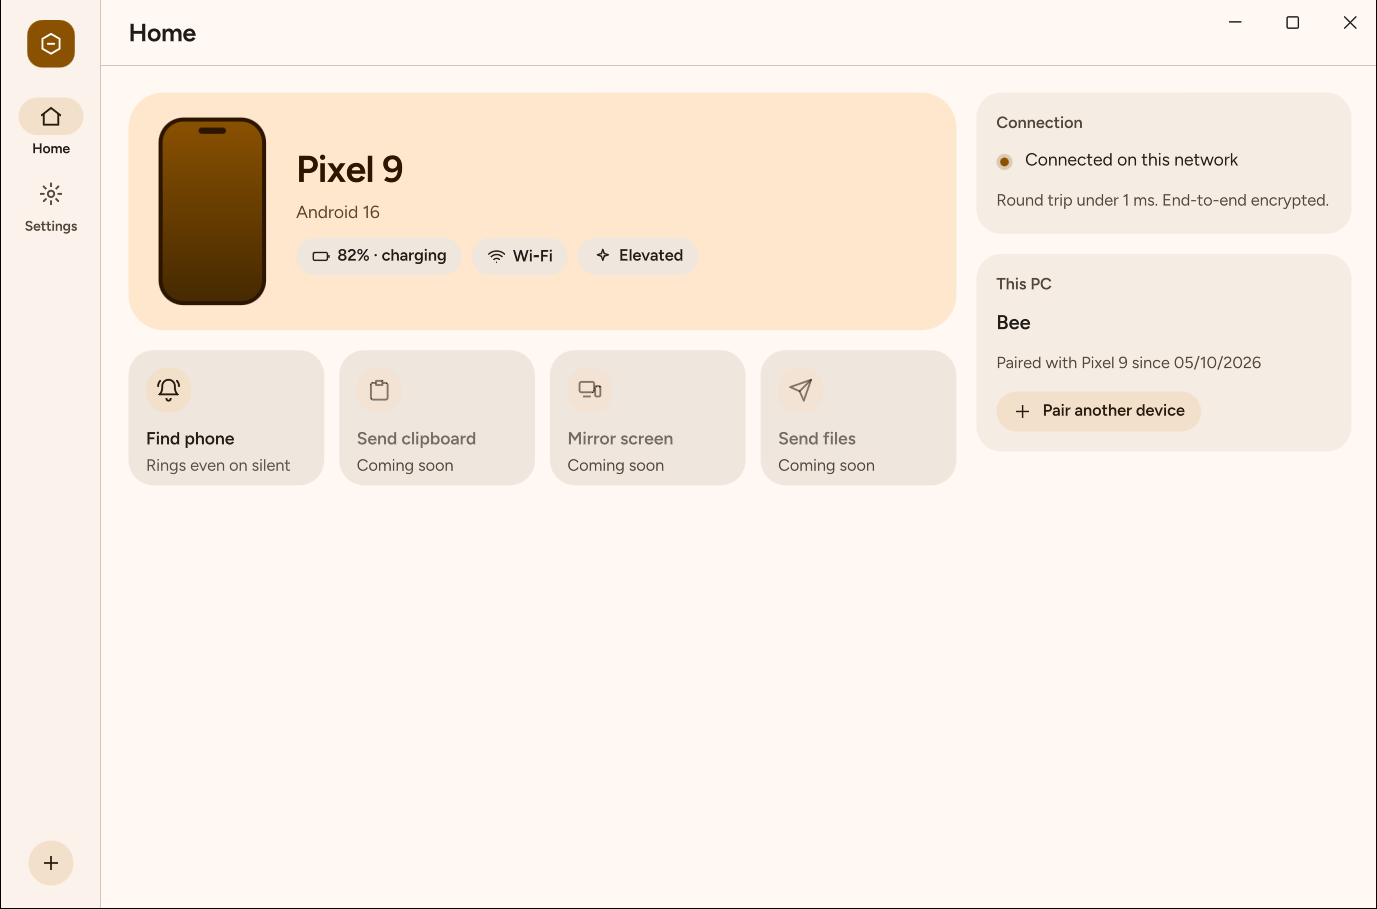
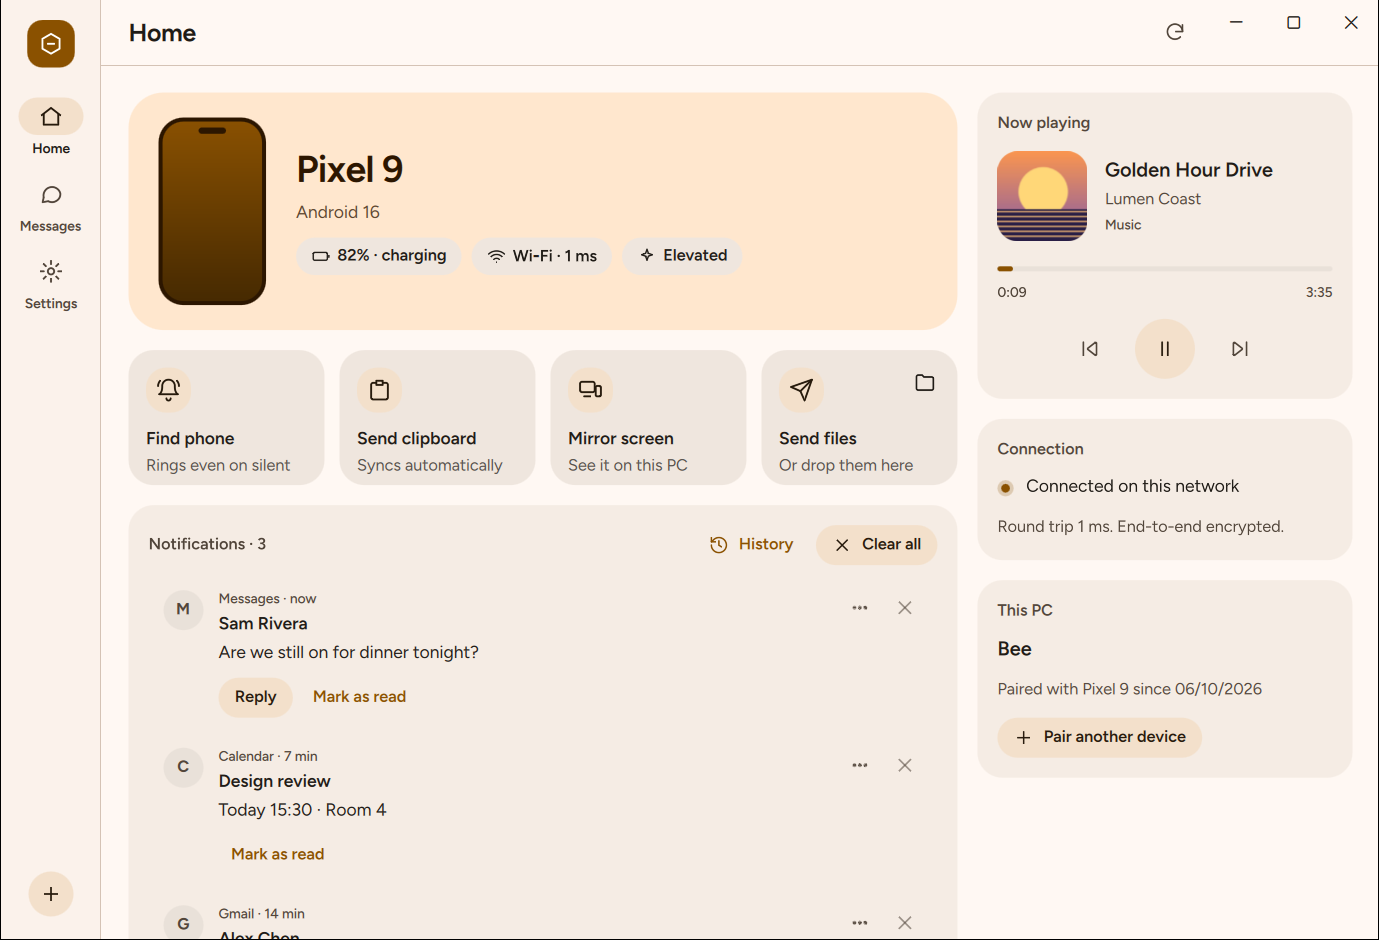
README and screenshots for where the project stands
The README now reflects Phase 1 done and Phase 2 under way: mirrored
sound, in-call controls, Messages search and codes, battery alerts. New
screenshots show Home with notifications, music and a call, Messages, and
a mirrored phone.

The CLI gains a demo command (a phone with notifications, music,
conversations and an optional call at once) for screenshots and trying the
PC app. Also: Messages says Yesterday in its list, the clipboard tile's
subtitle fits, call toggles keep Graphite's shapes, and the CLI's notify
and media commands have the right help.

diff --git a/desktop/app/qml/pages/MessagesPage.qml b/desktop/app/qml/pages/MessagesPage.qml
@@ -99,12 +99,15 @@ Item {
     }
     onDeviceIdChanged: { composing = false; load() }
 
-    // "14:05", "Tue", or a date.
+    // "14:05", "Yesterday", "Tue", or a date.
     function shortTime(ms) {
         const date = new Date(ms)
         const now = new Date()
         if (date.toDateString() === now.toDateString())
             return date.toLocaleTimeString(Qt.locale(), Locale.ShortFormat)
+        const yesterday = new Date(now.getFullYear(), now.getMonth(), now.getDate() - 1)
+        if (date.toDateString() === yesterday.toDateString())
+            return qsTr("Yesterday")
         if (now - date < 6 * 24 * 3600 * 1000)
             return date.toLocaleDateString(Qt.locale(), "ddd")
         return date.toLocaleDateString(Qt.locale(), Locale.ShortFormat)

diff --git a/desktop/app/qml/pages/HomePage.qml b/desktop/app/qml/pages/HomePage.qml
@@ -266,7 +266,7 @@ Item {
                 ActionTile {
                     width: actions.tileWidth
                     title: qsTr("Send clipboard")
-                    subtitle: Preferences.autoClipboard ? qsTr("Copies go over by themselves") : qsTr("To the phone")
+                    subtitle: Preferences.autoClipboard ? qsTr("Syncs automatically") : qsTr("To the phone")
                     iconPath: Icons.clipboard
                     feature: home.feature("clipboard.pc_to_phone")
                     onClicked: AppController.sendClipboard(home.deviceId)

diff --git a/desktop/app/qml/components/CallCard.qml b/desktop/app/qml/components/CallCard.qml
@@ -55,7 +55,7 @@ Card {
             Rectangle {
                 z: -1
                 anchors.fill: parent
-                radius: width / 2
+                radius: Theme.pill(height)
                 visible: control.on
                 color: Theme.graphite ? Theme.surfaceContent : Theme.primary
             }

diff --git a/core/nectarlink-cli/src/main.rs b/core/nectarlink-cli/src/main.rs
@@ -138,8 +138,6 @@ enum Command {
         #[arg(long)]
         reply: Option<String>,
     },
-    /// Show a notification on paired PCs as if this were a phone (use with
-    /// --as-phone), then stay online to show what the PC does with it.
     /// Control what plays on a paired device: play, pause, next, previous,
     /// or seek with --position.
     Media {
@@ -205,6 +203,18 @@ enum Command {
     /// Act as a phone with a few sample conversations (use with --as-phone),
     /// so a PC can read them and text through this client; stays online.
     Texts,
+    /// Act as a phone with sample content all at once (use with
+    /// --as-phone): notifications, a song playing, conversations and,
+    /// with --call, a call in progress. For screenshots and trying the PC
+    /// app; stays online.
+    Demo {
+        /// Also a call in progress.
+        #[arg(long)]
+        call: bool,
+        /// Artwork for the song (JPEG or PNG).
+        #[arg(long)]
+        art: Option<PathBuf>,
+    },
     /// Act as a phone with an incoming call (use with --as-phone): PCs can
     /// answer it, then mute, use the speaker, hold, press keys or hang up,
     /// as on a phone that controls its calls. Stays online.
@@ -264,6 +274,8 @@ enum Command {
         #[arg(long)]
         art: Option<PathBuf>,
     },
+    /// Show a notification on paired PCs as if this were a phone (use with
+    /// --as-phone), then stay online to show what the PC does with it.
     Notify {
         title: String,
         text: String,
@@ -279,6 +291,10 @@ enum Command {
         /// A picture it shows (JPEG, at most 160 KiB).
         #[arg(long)]
         image: Option<PathBuf>,
+        /// More notifications shown with it, each "App|Title|Text"
+        /// (repeatable).
+        #[arg(long)]
+        also: Vec<String>,
     },
 }
 
@@ -1114,6 +1130,87 @@ async fn run(cli: &Cli, node: &Node) -> Result<()> {
             println!("Ringing on connected PCs (and on others when they connect).");
             watch(node, false).await?;
         }
+        Command::Demo { call, art } => {
+            if !cli.as_phone {
+                bail!("the demo is a phone: add --as-phone");
+            }
+            sample_texts();
+            let _ = TEXTS_NODE.set(node.clone());
+            let _ = CALL_NODE.set(node.clone());
+            CALL_CONTROLS.store(true, std::sync::atomic::Ordering::Relaxed);
+            let mut offers = cli.offers.clone();
+            offers.extend(
+                [
+                    "notify.mirror",
+                    "notify.reply",
+                    "media.control",
+                    "clip.write",
+                    "clip.share",
+                    nectarlink_core::SMS_READ,
+                    nectarlink_core::SMS_SEND,
+                    nectarlink_core::CALLS_STATE,
+                    nectarlink_core::CALLS_CONTROL,
+                    nectarlink_core::CALLS_IN_CALL,
+                ]
+                .map(str::to_owned),
+            );
+            node.update_power(node_power(cli), offers).await;
+            let now = std::time::SystemTime::now().duration_since(std::time::UNIX_EPOCH)?.as_millis() as i64;
+            let samples = [
+                ("Messages", "Sam Rivera", "Are we still on for dinner tonight?", true),
+                ("Calendar", "Design review", "Today 15:30 · Room 4", false),
+                (
+                    "Gmail",
+                    "Alex Chen",
+                    "Photos from Saturday: here they are, plus the ones from the lake",
+                    false,
+                ),
+            ];
+            for (i, (app, title, text, reply)) in samples.into_iter().enumerate() {
+                let mut actions = vec![NotificationAction {
+                    id: "read".into(),
+                    title: "Mark as read".into(),
+                    reply: false,
+                }];
+                if reply {
+                    actions.insert(
+                        0,
+                        NotificationAction { id: "reply".into(), title: "Reply".into(), reply: true },
+                    );
+                }
+                node.notification_posted(Notification {
+                    key: format!("demo|{i}"),
+                    app: format!("dev.nectarlink.demo.{}", app.to_lowercase()),
+                    app_name: app.into(),
+                    title: Some(title.into()),
+                    text: Some(text.into()),
+                    sub: None,
+                    when: now - 7 * 60_000 * i as i64,
+                    actions,
+                    silent: true,
+                    icon: None,
+                    image: None,
+                })
+                .await;
+            }
+            if *call {
+                let call = nectarlink_core::CallState {
+                    id: now.to_string(),
+                    state: "active".into(),
+                    incoming: true,
+                    number: Some("+15550144".into()),
+                    name: Some("Sam Rivera".into()),
+                    photo: None,
+                    missed: false,
+                    since: Some(now - 83_000),
+                    controls: Some(nectarlink_core::CallControls { can_hold: true, ..Default::default() }),
+                };
+                *CALL.lock().unwrap() = Some(call.clone());
+                node.call_changed(call).await.context("can't tell PCs")?;
+            }
+            println!("Showing sample content to paired PCs.");
+            play(node, "Golden Hour Drive", "Lumen Coast", "Music", 215, art.as_deref()).await?;
+        }
         Command::Sms { device, action } => {
             let mut offers = cli.offers.clone();
             offers.push(nectarlink_core::SMS_SHOW.into());
@@ -1291,7 +1388,7 @@ async fn run(cli: &Cli, node: &Node) -> Result<()> {
             println!("Announced to connected PCs that show photos.");
             watch(node, false).await?;
         }
-        Command::Notify { title, text, app, reply, silent, image } => {
+        Command::Notify { title, text, app, reply, silent, image, also } => {
             let image = image.as_deref().map(std::fs::read).transpose().context("can't read the picture")?;
             if !cli.as_phone {
                 bail!("notifications come from phones: add --as-phone");
@@ -1320,6 +1417,26 @@ async fn run(cli: &Cli, node: &Node) -> Result<()> {
                 image,
             })
             .await;
+            for (i, extra) in also.iter().enumerate() {
+                let mut parts = extra.splitn(3, '|');
+                let (Some(app), Some(title), Some(text)) = (parts.next(), parts.next(), parts.next()) else {
+                    bail!("--also takes \"App|Title|Text\"");
+                };
+                node.notification_posted(Notification {
+                    key: format!("cli|{when}|{i}"),
+                    app: format!("dev.nectarlink.cli.{i}"),
+                    app_name: app.into(),
+                    title: Some(title.into()),
+                    text: Some(text.into()),
+                    sub: None,
+                    when: when - 60_000 * (i as i64 + 1),
+                    actions: Vec::new(),
+                    silent: true,
+                    icon: None,
+                    image: None,
+                })
+                .await;
+            }
             println!("Notification sent to connected PCs (and to others when they connect).");
             watch(node, false).await?;
         }

diff --git a/README.md b/README.md
@@ -15,12 +15,12 @@ no account and no cloud.
 </div>
 
 > [!IMPORTANT]
-> **Nectarlink is in early development.** The foundations work end to end (pairing,
-> encrypted connections, live device status, find my device), but most features
-> are still ahead. There are no releases yet. See [Project status](#project-status).
+> **Nectarlink is in active development.** The everyday features work end to end
+> (notifications, clipboard, files, media) and mirroring, messages and calls are
+> well along, but there are no releases yet. See [Project status](#project-status).
 
 <p align="center">
-  <img src="docs/screenshots/desktop-graphite-home.png" alt="Nectarlink for Windows, home screen, Graphite theme" width="880">
+  <img src="docs/screenshots/desktop-bloom-home.png" alt="Nectarlink for Windows, home screen with notifications and what plays on the phone, Bloom theme" width="880">
 </p>
 
 ## Why Nectarlink
@@ -54,9 +54,10 @@ is in [docs/PLAN.md](docs/PLAN.md).
 
 ## Project status
 
-Nectarlink is completing **Phase 0: Foundations** of the
-[roadmap](docs/PLAN.md#8-roadmap). The pieces every feature builds on are in
-place and tested; the user-facing features of Phase 1 come next.
+Nectarlink has finished **Phase 1** of the [roadmap](docs/PLAN.md#8-roadmap)
+(the everyday features) and is working through **Phase 2** (mirroring,
+messages and calls). Everything below works end to end and is covered by
+tests; there are no releases yet.
 
 **Working today**
 
@@ -91,7 +92,9 @@ place and tested; the user-facing features of Phase 1 come next.
   that pick up where they left off after a dropped connection.
 - **Screen mirroring**: see the phone's screen on the PC, in a window of
   its own, at up to 1920 pixels and 60 frames a second, hardware encoded on
-  the phone; Android asks each time. Turn on **Control from your PC** in
+  the phone, with the phone's sound playing on the PC (Android 10 and
+  later; mute it from the window); Android asks each time. Turn on
+  **Control from your PC** in
   the phone's Nectarlink settings to tap, swipe, scroll and type with the
   PC's mouse and keyboard (right-click is Back), or set up **Wireless
   debugging** there once for real touch (live dragging) and keys, with
@@ -99,20 +102,26 @@ place and tested; the user-facing features of Phase 1 come next.
   itself after a reboot.
 - **Texts** on the PC: a Messages page with the phone's conversations
   (pictures included), to reply or start a new one; texts go out through
-  the phone.
+  the phone. Search them, copy a one-time code with one click, and open
+  links.
 - **Calls**: see who's calling on the PC (with the contact's name and
-  photo), and answer, decline or silence it from there; the call itself
-  stays on the phone. Calls nobody answered show as missed.
+  photo), and answer, decline or silence it from there. During the call,
+  the PC shows how long it has been going and can hang up and change the
+  volume; with Wireless debugging set up (Android 12 and later), also mute,
+  switch to the speaker, hold and use the keypad. The call itself stays
+  on the phone. Calls nobody answered show as missed.
 - **New photos and screenshots** from the phone pop up on the PC with a
   preview: save them to Downloads or copy them, ready to paste.
 - **Media** both ways: what plays on the phone shows on the PC, in the app and
   in Windows' own media flyout (so the keyboard's media keys work too), and
   what plays on the PC shows in the phone's media controls, with artwork and
   a seek bar.
+- **Battery alerts** on the PC when the phone runs low or is fully charged.
+  Phone notifications follow Windows' Do not disturb (they wait in the app).
 - **Capability matrix**: both apps compute which features work for a pair of
   devices and what would enable the rest, so the interface never offers
   something that can't work.
-- **Windows app**: home and settings, two themes in light and dark (Bloom,
+- **Windows app**: home, messages and settings, two themes in light and dark (Bloom,
   which takes its colors from the desktop wallpaper, and Graphite), Mica, a
   custom title bar with Snap Layouts, and a tray icon. In the background it
   uses about 10 MB of memory (as shown in Task Manager).
@@ -127,8 +136,9 @@ place and tested; the user-facing features of Phase 1 come next.
   against their SHA-256 sums.
 - **Command-line client** for development and testing (`nectarlink`).
 
-**Next**: Phase 2: mirroring, messages, calls and the other features in the
-plan.
+**Next**: phone apps in windows of their own on the PC, contacts and the
+call log, talking on calls through the PC (Bluetooth), and the rest of the
+[plan](docs/PLAN.md).
 
 ## Screenshots
 
@@ -137,8 +147,14 @@ and colorful. Both come in light and dark.
 
 | Graphite | Bloom |
 |:---:|:---:|
-| <img src="docs/screenshots/desktop-graphite-home.png" alt="Home, Graphite theme"> | <img src="docs/screenshots/desktop-bloom-home.png" alt="Home, Bloom theme"> |
+| <img src="docs/screenshots/desktop-graphite-home.png" alt="Home during a call, Graphite theme"> | <img src="docs/screenshots/desktop-bloom-home.png" alt="Home, Bloom theme"> |
 | <img src="docs/screenshots/desktop-graphite-settings.png" alt="Settings, Graphite theme"> | <img src="docs/screenshots/desktop-bloom-settings.png" alt="Settings, Bloom theme"> |
+
+<p align="center">
+  <img src="docs/screenshots/desktop-messages.png" alt="Messages: the phone's conversations on the PC" height="436">
+  <img src="docs/screenshots/desktop-mirroring.png" alt="The phone's screen in a window on the PC" height="436"><br>
+  <sub>The phone's texts on the PC, and its screen in a window of its own.</sub>
+</p>
 
 <p align="center">
   <img src="docs/screenshots/desktop-pairing.png" alt="Pairing a phone by QR code" width="640"><br>
@@ -146,7 +162,8 @@ and colorful. Both come in light and dark.
 </p>
 
 <sub>Screenshots are from the current development build. The connected phone is
-simulated with the command-line client.</sub>
+simulated with the command-line client (`nectarlink --as-phone demo`); the
+mirrored screen is the Android app on an emulator.</sub>
 
 ## How it works
 
